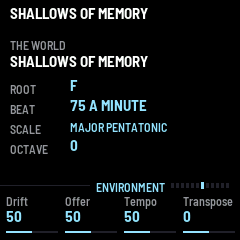
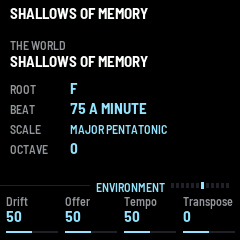
ENV の値をラベルと同じベースラインに揃える

Changed region(s): [[0.2917, 0.3208, 0.7, 0.6417]]

diff --git a/app/app.c b/app/app.c
@@ -1309,17 +1309,17 @@ static void draw_env(void)
     cv_text(10, 2, &FONT_XS, "THE WORLD", C_GRAY);
     cv_text(10, 18, &FONT_B, en_world_name(set.world), C_WHITE);
     cv_text(10, 46, &FONT_XS, "ROOT", C_GRAY);
-    cv_text(70, 42, &FONT_B, NOTE[((int)en_root + set.par[P_TRANSPOSE] + 120) % 12], C_HI);
+    cv_text(70, 45, &FONT_B, NOTE[((int)en_root + set.par[P_TRANSPOSE] + 120) % 12], C_HI);
     cv_text(10, 66, &FONT_XS, "BEAT", C_GRAY);
     int_text(bpm, t);
     k = str_put(t + 6, 12, t);                   /* (t: the number, then " a minute") */
     str_put(t + 6 + k, 12, " A MINUTE");
-    cv_text(70, 62, &FONT_B, t + 6, C_HI);
+    cv_text(70, 65, &FONT_B, t + 6, C_HI);
     cv_text(10, 86, &FONT_XS, "SCALE", C_GRAY);
-    cv_text(70, 84, &FONT_XS, SCALE_NAME[en_scale % 5], C_HI);
+    cv_text(70, 86, &FONT_XS, SCALE_NAME[en_scale % 5], C_HI);
     cv_text(10, 106, &FONT_XS, "OCTAVE", C_GRAY);
     int_text(set.oct, t);
-    cv_text(70, 102, &FONT_B, t, C_HI);
+    cv_text(70, 105, &FONT_B, t, C_HI);
     cv_blit(0, 36);
 }
 
